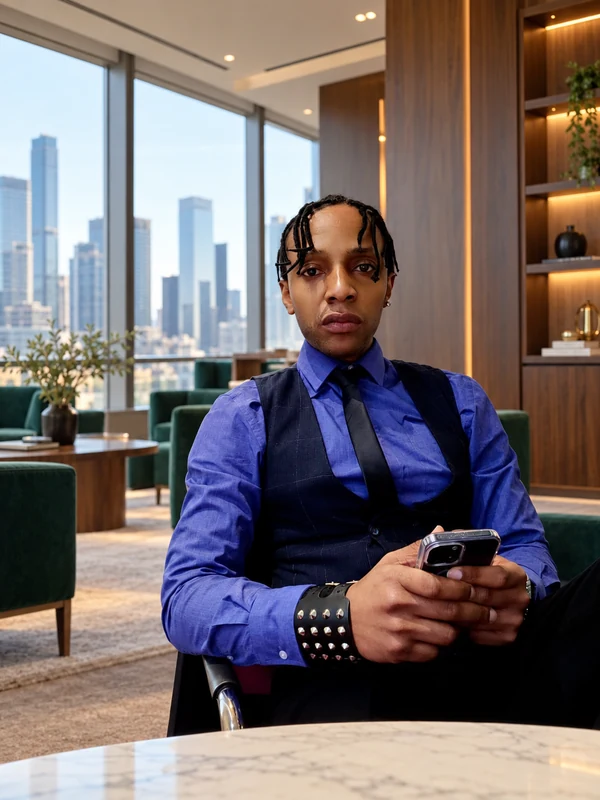
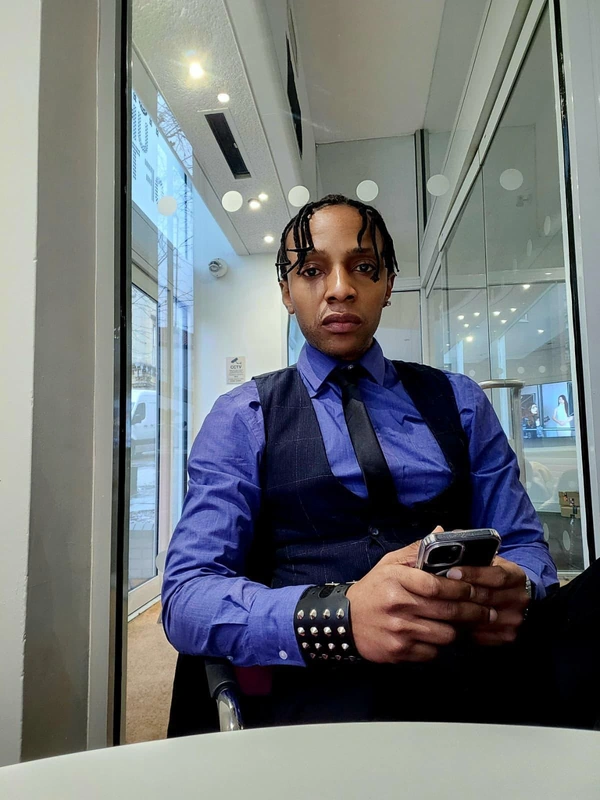
Restore the original background in the seated personal portrait

diff --git a/index.html b/index.html
@@ -541,7 +541,7 @@
 
 <section class="xp-ventures xp-section" id="ventures"><div class="xp-section-top"><span>05 / VLV GROUP</span><span>BUILDING WHAT COMES NEXT</span></div><div class="xp-ventures-heading"><h2>Founder &amp; CEO.<br><em>VLV Group.</em></h2><p>Founded and led by Dr Imo Enang as Founder &amp; CEO, VLV Group connects three specialist businesses across technology, capability development and organisational intelligence.</p></div><div class="xp-orbit-experience"><div class="xp-orbit-intro"><span>ONE GROUP. THREE CONNECTED BUSINESSES.</span><button class="xp-motion-control" type="button" aria-pressed="false">PAUSE MOTION</button></div><div class="xp-brand-cosmos" aria-label="VLV connects Ambidexters, SkillHubs and ImpactCity"><div class="xp-orbit-starfield" aria-hidden="true"></div><div class="xp-orbit-center"><a href="https://myvlv.com/" target="_blank" rel="noopener"><img src="/assets/vlv-transparent.png" alt="VivaLaVida - parent group" width="1254" height="1254"><span>VLV / THE PARENT GROUP ↗</span></a></div><div class="xp-brand-orbiter" style="--start:-90deg"><div class="xp-orbit-node"><a href="https://ambidexters.com/" target="_blank" rel="noopener"><img src="/assets/ambidexters-transparent.png" alt="AMBIDEXTERS official logo" decoding="async" width="1254" height="1254"><span>AMBIDEXTERS ↗</span><small>PRODUCTS &amp; DIGITAL VENTURES</small></a></div></div><div class="xp-brand-orbiter" style="--start:30deg"><div class="xp-orbit-node"><a href="https://theskillhubs.com/" target="_blank" rel="noopener"><img src="/assets/skillhubs-transparent.png" alt="SKILLHUBS official logo" decoding="async" width="1254" height="1254"><span>SKILLHUBS ↗</span><small>LEARNING &amp; EXECUTIVE EDUCATION</small></a></div></div><div class="xp-brand-orbiter" style="--start:150deg"><div class="xp-orbit-node"><a href="https://impact-city.com/" target="_blank" rel="noopener"><img src="/assets/impactcity-transparent.png" alt="IMPACTCITY official logo" decoding="async" width="1254" height="1254"><span>IMPACTCITY ↗</span><small>VISIBILITY &amp; ORGANISATIONAL INSIGHT</small></a></div></div></div><div class="xp-orbit-company-links"><a href="https://ambidexters.com/" target="_blank" rel="noopener">AMBIDEXTERS ↗<span>PRODUCTS &amp; DIGITAL VENTURES</span></a><a href="https://theskillhubs.com/" target="_blank" rel="noopener">SKILLHUBS ↗<span>LEARNING &amp; EXECUTIVE EDUCATION</span></a><a href="https://impact-city.com/" target="_blank" rel="noopener">IMPACTCITY ↗<span>VISIBILITY &amp; ORGANISATIONAL INSIGHT</span></a></div></div><a class="xp-text-link" href="/vlv-group">DISCOVER THE VLV ECOSYSTEM <span>↗</span></a></section>
 <section class="xp-credentials xp-section"><div class="xp-section-top"><span>06 / MILESTONES</span><span>SELECTED RECOGNITION</span></div><h2>Experience and<br><em>recognition.</em></h2><div class="xp-credentials-grid"><div><span>2023</span><strong>MIPAD</strong><p>Global Top 100 Under 40 · Business and Entrepreneurship</p></div><div><span>2025</span><strong>GLOBAL TALENT</strong><p>British Academy endorsement</p></div><div><span>DBA</span><strong>WARWICK</strong><p>Warwick Business School · Strategy and organisational ambidexterity</p></div><div><span>GLOBAL</span><strong>EXPERIENCE</strong><p>Leadership across academia, FMCG, consulting and technology ventures</p></div></div><a class="xp-text-link" href="/recognition">EXPLORE RECOGNITION <span>↗</span></a></section>
-<section class="xp-personal-finale" data-xp-scene="personal" id="personal-moments"><div class="xp-personal-finale-head"><span>BEYOND THE PROFESSIONAL PROFILE</span><h2>Away from work.<br><em>Personal moments.</em></h2><p>Personal photographs from life outside work.</p></div><div class="xp-personal-finale-grid"><figure class="xp-story-photo"><img src="/assets/personal-evening.webp" srcset="/assets/personal-evening-small.webp 600w, /assets/personal-evening.webp 1086w" sizes="(max-width: 600px) 88vw, 45vw" alt="Dr Imo Enang in a black tuxedo beside an illuminated courtyard and reflecting pool" width="1086" height="1448" loading="lazy" decoding="async"><figcaption>AN EVENING BETWEEN CHAPTERS</figcaption></figure><figure class="xp-story-photo"><img src="/assets/personal-lounge.webp" srcset="/assets/personal-lounge-small.webp 600w, /assets/personal-lounge.webp 1086w" sizes="(max-width: 600px) 88vw, 45vw" alt="Dr Imo Enang seated in a blue shirt and waistcoat in an executive lounge" width="1086" height="1448" loading="lazy" decoding="async"><figcaption>A MOMENT TO REFLECT</figcaption></figure><figure class="xp-story-photo"><img src="/assets/personal-suit.webp" srcset="/assets/personal-suit-small.webp 600w, /assets/personal-suit.webp 1440w" sizes="(max-width: 600px) 88vw, 45vw" alt="Dr Imo Enang taking a mirror portrait in a black suit" width="1440" height="1080" loading="lazy" decoding="async"><figcaption>PERSONAL STYLE</figcaption></figure><figure class="xp-story-photo"><img src="/assets/personal-smile-approved.jpg" sizes="(max-width: 600px) 88vw, 45vw" alt="Dr Imo Enang smiling in a blue shirt and navy waistcoat" width="1086" height="1448" loading="lazy" decoding="async"><figcaption>THE PERSON BEHIND THE WORK</figcaption></figure></div></section>
+<section class="xp-personal-finale" data-xp-scene="personal" id="personal-moments"><div class="xp-personal-finale-head"><span>BEYOND THE PROFESSIONAL PROFILE</span><h2>Away from work.<br><em>Personal moments.</em></h2><p>Personal photographs from life outside work.</p></div><div class="xp-personal-finale-grid"><figure class="xp-story-photo"><img src="/assets/personal-evening.webp" srcset="/assets/personal-evening-small.webp 600w, /assets/personal-evening.webp 1086w" sizes="(max-width: 600px) 88vw, 45vw" alt="Dr Imo Enang in a black tuxedo beside an illuminated courtyard and reflecting pool" width="1086" height="1448" loading="lazy" decoding="async"><figcaption>AN EVENING BETWEEN CHAPTERS</figcaption></figure><figure class="xp-story-photo"><img src="/assets/personal-lounge.webp" srcset="/assets/personal-lounge-small.webp 600w, /assets/personal-lounge.webp 1200w" sizes="(max-width: 600px) 88vw, 45vw" alt="Dr Imo Enang seated in a blue shirt and waistcoat beside the glass walls of a modern interior" width="1200" height="1600" loading="lazy" decoding="async"><figcaption>A MOMENT TO REFLECT</figcaption></figure><figure class="xp-story-photo"><img src="/assets/personal-suit.webp" srcset="/assets/personal-suit-small.webp 600w, /assets/personal-suit.webp 1440w" sizes="(max-width: 600px) 88vw, 45vw" alt="Dr Imo Enang taking a mirror portrait in a black suit" width="1440" height="1080" loading="lazy" decoding="async"><figcaption>PERSONAL STYLE</figcaption></figure><figure class="xp-story-photo"><img src="/assets/personal-smile-approved.jpg" sizes="(max-width: 600px) 88vw, 45vw" alt="Dr Imo Enang smiling in a blue shirt and navy waistcoat" width="1086" height="1448" loading="lazy" decoding="async"><figcaption>THE PERSON BEHIND THE WORK</figcaption></figure></div></section>
 <section class="xp-connect" id="connect"><span>07 / THE NEXT CONVERSATION</span><h2>Get in<br><em>touch.</em></h2><p>For research collaborations, speaking, executive advisory and partnerships.</p><div class="xp-connect-links"><a href="https://uk.linkedin.com/in/dr-imo-enang" target="_blank" rel="me noopener">LINKEDIN ↗</a><a href="https://orcid.org/0000-0003-1586-2175" target="_blank" rel="noopener">ORCID ↗</a><a href="https://myvlv.com/" target="_blank" rel="noopener">VLV GROUP ↗</a></div></section>
 <section class="xp-seasonal xp-seasonal-finish" id="christmas" aria-labelledby="christmas-heading"><div class="xp-seasonal-photo"><img src="/assets/christmas-personal.webp" srcset="/assets/christmas-personal-small.webp 600w, /assets/christmas-personal.webp 1024w" sizes="(max-width: 800px) 90vw, 54vw" alt="Dr Imo Enang celebrating the festive season in a tuxedo and sunglasses beside a Christmas tree" loading="lazy" width="1024" height="1536" decoding="async"></div><div class="xp-seasonal-inner"><span class="xp-seasonal-kicker">WITH WARM WISHES</span><h2 id="christmas-heading">Merry Christmas and Happy New Year</h2><p>Wishing you peace, joy and time with the people who matter.</p><span class="xp-seasonal-sign">DR IMO ENANG</span></div></section></main><footer class="xp-footer"><div>DR IMO ENANG <small>THE OFFICIAL WEBSITE</small></div><span>© 2026 DR IMO ENANG</span><a href="#top">BACK TO TOP ↑</a></footer><script src="/entrance-flight.js" defer></script><script src="/experience.js" defer></script><script src="/dynamic-graphics.js" defer></script><script src="/personal-curtain.js?v=20261018" defer></script>
 </body></html>
